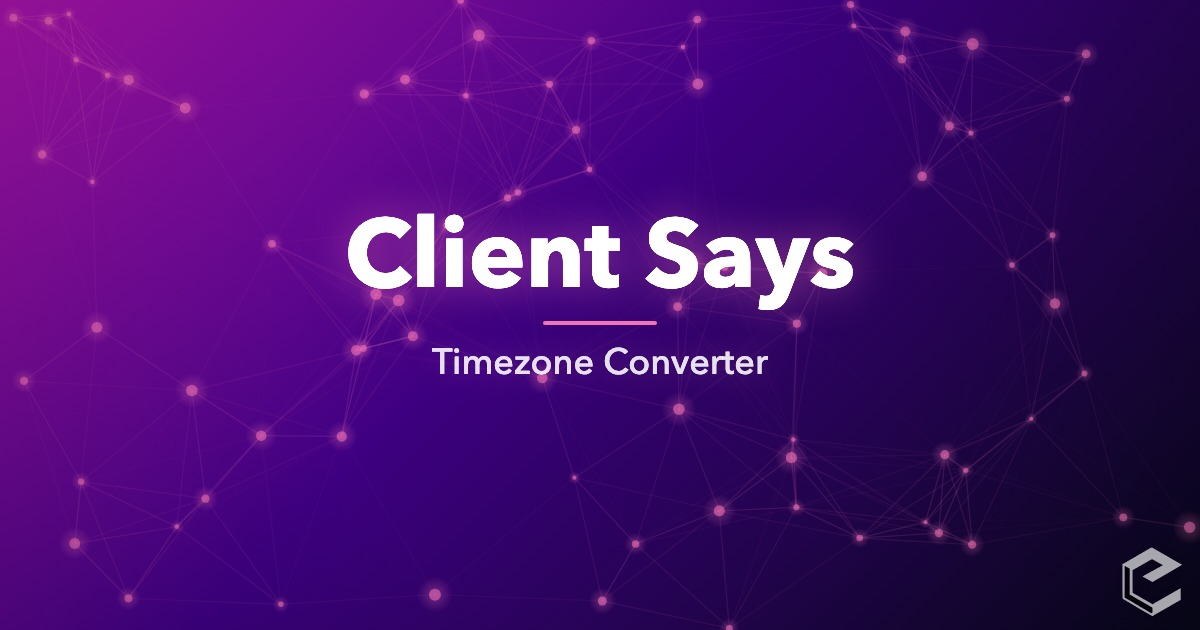
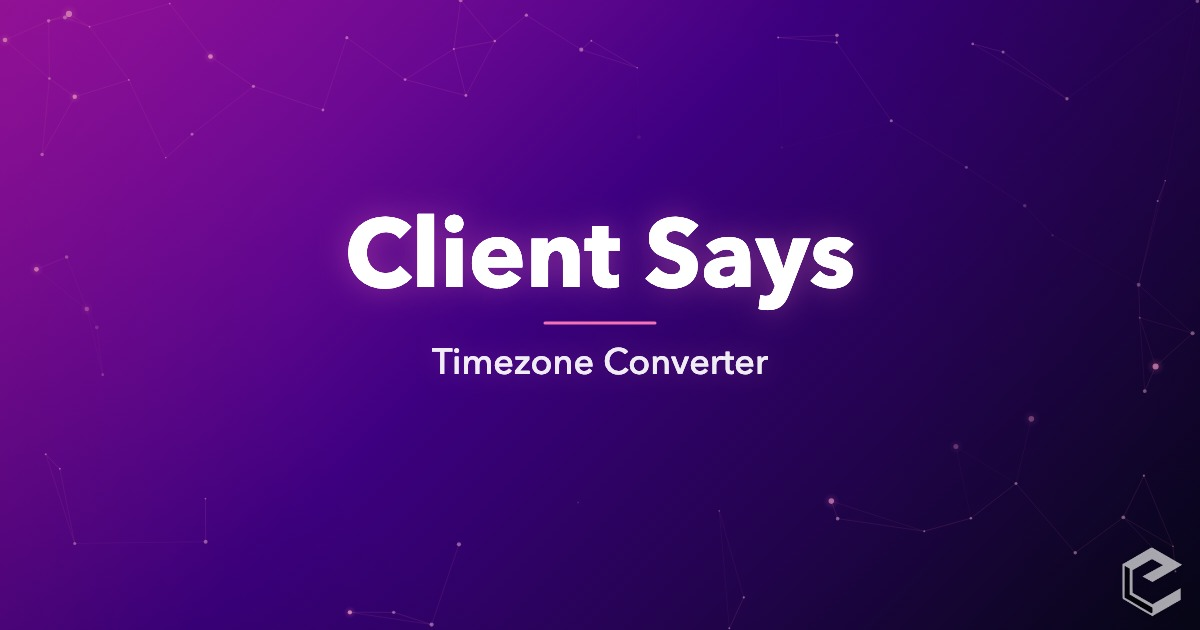
OG-STUDIO Fix

diff --git a/css/neorgon-header.css b/css/neorgon-header.css
@@ -80,6 +80,14 @@ html:not([data-theme]) {
 
      visitor choice (?theme= / cookie)  >  season (CDN)  >  skin  >  kit default
 
+   A site that should sit out every season keeps its skin with
+   `<html lang="en" data-season="off">` — see season.css. That declines
+   the fleet's decoration only; a visitor's ?theme= still wins.
+
+   Named skins below are the reusable ones. For a one-off palette no
+   other site would share, use `data-header-skin="custom"` and declare
+   the tokens in the site's own CSS — contract at the end of this block.
+
    Two cascade facts make that ordering work, and both are easy to
    get wrong:
 
@@ -217,6 +225,58 @@ html:not([data-theme]) .header-bar[data-header-skin="ember"] {
   --header-edge-from: rgba(251, 191, 36, .2);
   --header-edge-to: rgba(251, 191, 36, .32);
 }
+
+/* jade — clinical emerald. Tuned to headpain-site's #059669 / #10b981
+   accents on its #040714 page. For calm medical/health surfaces where
+   both the magenta default and ember's warning-warmth read wrong. */
+html:not([data-theme]) .header-bar[data-header-skin="jade"] {
+  --header-bg-start: #065f46;
+  --header-bg-mid: #043b2c;
+  --header-bg-end: #040714;
+  --header-glass: rgba(4, 59, 44, .5);
+  --header-accent: #6ee7b7;
+  --header-text: #ecfdf5;
+  --header-text-dim: rgba(236, 253, 245, .82);
+  --header-icon-color: rgba(167, 243, 208, .84);
+  --header-border: rgba(110, 231, 183, .2);
+  --header-border-strong: rgba(110, 231, 183, .36);
+  --header-control-border: rgba(167, 243, 208, .5);
+  --header-menu-bg: #08251c;
+  --header-menu-hover: rgba(110, 231, 183, .14);
+  --header-edge-from: rgba(110, 231, 183, .2);
+  --header-edge-to: rgba(110, 231, 183, .32);
+}
+
+/* ── custom — a site-authored skin ────────────────────────────────
+   For a one-off palette that no named skin fits and that no other
+   site would reuse. The kit deliberately ships NO tokens for this
+   value: the site supplies them, and the kit stays out of the way.
+
+     <header class="header-bar" data-header-skin="custom">
+
+   In the site's own css/style.css, copy this selector EXACTLY — the
+   scoping and the specificity are the whole contract:
+
+     html:not([data-theme]) .header-bar[data-header-skin="custom"] {
+       --header-bg-start: …;  --header-bg-mid: …;  --header-bg-end: …;
+       --header-accent: …;    --header-text: …;    --header-text-dim: …;
+       --header-icon-color: …; --header-border: …; --header-border-strong: …;
+       --header-control-border: …; --header-menu-bg: …; --header-menu-hover: …;
+       --header-edge-from: …; --header-edge-to: …;
+     }
+
+   Why that exact selector, and nothing shorter:
+     · `html:not([data-theme])` makes the skin collapse the instant a
+       visitor picks a theme. Drop it and the site ignores ?theme=.
+     · `[data-header-skin="custom"]` puts it at (0,3,1) — above the
+       kit default, below an armed season's (0,4,2) skin variant. A
+       bare `.header-bar { --header-bg-start: … }` is only (0,1,0)
+       and the kit's own defaults would beat it.
+   Set only the three gradient stops if that is all that clashes; the
+   bar re-composes --header-bg from them (see .header-bar below).
+   Only the three stops + accent are usually enough — but re-tune the
+   edge ramp too if the bar is much darker or lighter than the default
+   magenta, which those values are calibrated against. */
 
 /* ── Bar ─────────────────────────────────────────────────────── */
 .header-bar {
